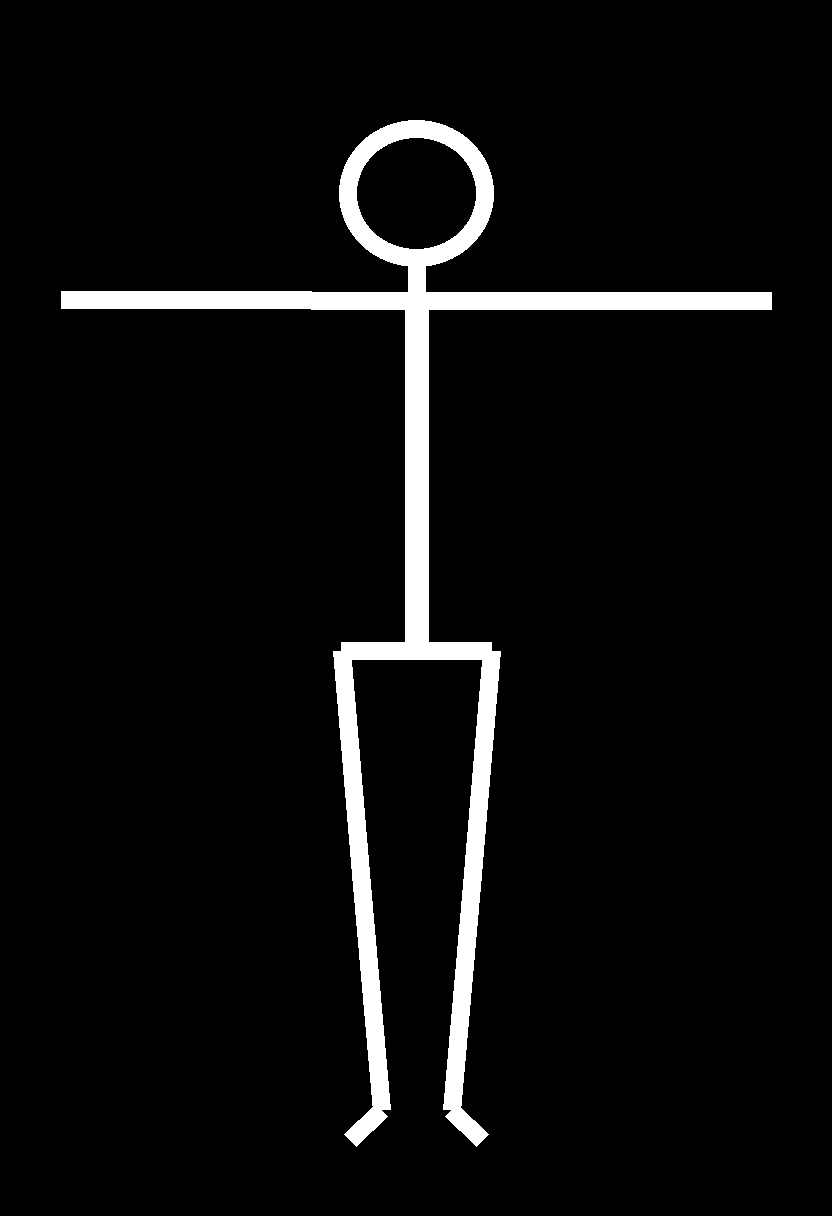
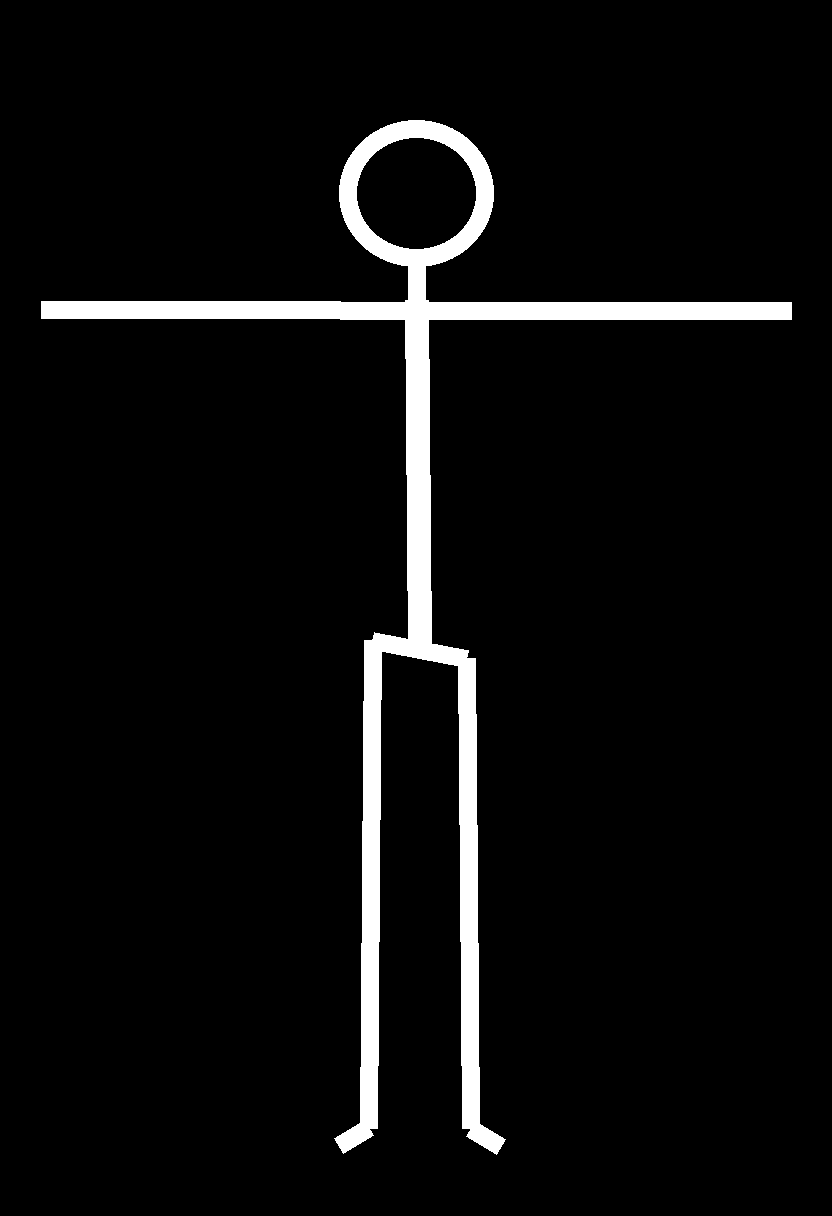
art: mk_skel single pose table, name fn, span gate

diff --git a/tools/mk_skel.py b/tools/mk_skel.py
@@ -3,7 +3,7 @@ from PIL import Image, ImageDraw
 W,H=832,1216
 HEAD=(339,120,493,266)
 CORE=[((416,266),(416,300)),((416,300),(419,649))]
-SH={k:((340,310),(492,310)) for k in ('p1','p2','p3','p4','p5','p7','p8')}
+SH={k:((340,310),(492,310)) for k in ('p1','p2','p3','p4','p5','p7','p8','tpose','ppose','apose-wide')}
 SH['anchor']=((340,322),(492,300))
 HIP={k:((372,640),(466,658)) for k in SH if k!='anchor'}
 HIP['anchor']=((372,632),(466,668))
@@ -31,12 +31,34 @@ F={'p1':[((364,1128),(334,1146)),((474,1128),(504,1146))],
 'p7':[((368,1128),(338,1146)),((470,1128),(500,1146))],
 'p8':[((356,1128),(326,1146)),((482,1128),(512,1146))],
 'anchor':[((362,1128),(334,1146)),((500,1092),(530,1108))]}
-for k in sys.argv[1:]:
+A['tpose']=[((340,310),(190,310),(41,310)),((492,310),(642,310),(791,310))]
+L['tpose']=[((372,640),(370,880),(368,1128)),((466,658),(468,880),(470,1128))]
+F['tpose']=[((368,1128),(338,1146)),((470,1128),(500,1146))]
+A['ppose']=[((340,310),(300,430),(372,630)),((492,310),(532,430),(466,650))]
+L['ppose']=[((372,640),(368,880),(364,1128)),((466,658),(470,880),(474,1128))]
+F['ppose']=[((364,1128),(334,1146)),((474,1128),(504,1146))]
+A['apose-wide']=[((340,310),(250,420),(170,520)),((492,310),(582,420),(662,520))]
+L['apose-wide']=[((372,640),(340,880),(310,1128)),((466,658),(500,880),(530,1128))]
+F['apose-wide']=[((310,1128),(280,1146)),((530,1128),(560,1146))]
+
+POSES=('anchor','tpose','ppose','apose-wide','p1','p2','p3','p4','p5','p7','p8')
+def name(k):
+    return 'skel-tpose.png' if k=='tpose' else 'skel-ppose-%s.png'%k
+FLOOR={'tpose':700,'apose-wide':450,'ppose':220}
+for k in POSES:
+    for nm,D in (('SH',SH),('HIP',HIP),('A',A),('L',L),('F',F)):
+        assert k in D, '%s missing %s'%(nm,k)
+for k in (sys.argv[1:] or POSES):
     im=Image.new('RGB',(W,H),(0,0,0)); d=ImageDraw.Draw(im)
     d.ellipse(HEAD,outline=(255,255,255),width=18)
     d.line(SH[k],fill=(255,255,255),width=18)
     d.line(HIP[k],fill=(255,255,255),width=18)
     for p in CORE+A[k]+L[k]+F[k]: d.line(p,fill=(255,255,255),width=18,joint='curve')
     d.line(CORE[1],fill=(255,255,255),width=24)
-    im.save('art/skeletons/skel-ppose-%s.png'%k)
+    im.save('art/skeletons/'+name(k))
+    px=im.convert('L').load(); best=0
+    for y in range(280,900,4):
+        xs=[x for x in range(W) if px[x,y]>20]
+        if xs: best=max(best,max(xs)-min(xs))
+    assert best>=FLOOR.get(k,150), '%s span %d under %d'%(k,best,FLOOR.get(k,150))
     print(k,im.size)
